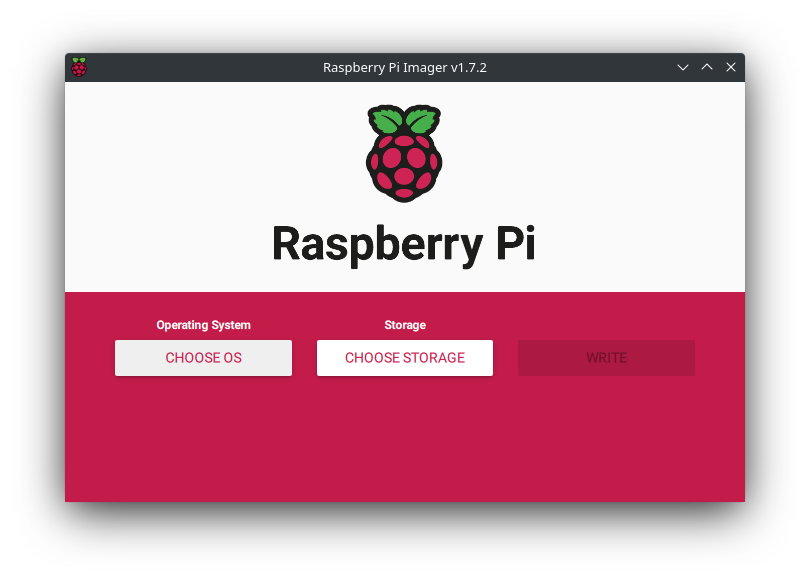
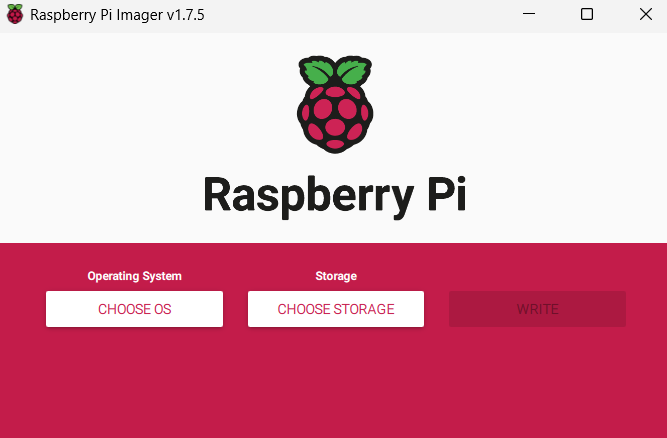
Doc: Rpi OS Setup (#4)
* doc: install process

* doc: install process

* getting started and bringup

* doc: update Rpi4 Setup and Bringup

diff --git a/content/en/docs/guides/setup/rpi4_setup/index.md b/content/en/docs/guides/setup/rpi4_setup/index.md
@@ -1,5 +1,5 @@
 ---
-title: "Raspberyy Pi 4 setup"
+title: "Raspberry Pi 4 setup"
 linktitle: "RPi4 setup"
 date: 2023-07-08
 weight: 1
@@ -15,15 +15,40 @@ The instructions for basic OS configuration are extracted from the [Lluvia proje
 
 On the desktop machine, download the Raspberry Pi Imager and install a fresh version of the operating system in a micro SD card.
 
+### Ubuntu Installation
 ```shell
 sudo apt install rpi-imager
+
 ```
 
-![](rpi-imager.png)
-![](rpi-imager-os-select.png)
-![](rpi-imager-sd.png)
+### Windows Installation
+For Windows users, download Raspberry Pi Imager directly using this [link](https://downloads.raspberrypi.org/imager/imager_latest.exe)
 
-Go to extra settings and enable SSH access, configure the WiFi, if needed. Click in **write** and wait for the process to complete.
+### Raspberry Pi Imager
+
+1. Select **CHOOSE OS** option to choose the Operating System.
+![](rpi-imager.png)
+
+
+2. Select **Raspberry Pi OS Lite (64-bit)**
+![](rpi-imager-os-select.png)
+
+3. Inside **CHOOSE STORAGE** , select the microSD where you will install the Raspberry Pi OS.
+![](rpi-imager-sd.jpeg)
+
+4. In the advanced  options, ensure that SSH is enabled and configure the hostname, username, password, and the Wi-Fi network to which the Raspberry Pi 4 will be connected.
+![](rpi-imager-advancedOptions.png)
+![](rpi-imager-advancedOptions2.png)
+
+5. Click on **save**, and finally, click on **write**, and wait for the process to complete.
+
+
+
+## Configurations inside the Raspberry Pi.
+
+{{< alert title="RPi configuration " >}}
+The instructions for basic OS configuration are extracted from the [Lluvia project](https://lluvia.ai/docs/gettingstarted/installation/raspberry_pi_4/).
+{{< /alert >}}
 
 Insert the micro SD card in the RPi and next, update and upgrade the operating system:
 
@@ -34,6 +59,41 @@ sudo apt upgrade
 sudo reboot
 ```
 
+## SSH connection (Optional) 
+There are two ways to initiate a remote connection between a PC and the Raspberry Pi using the SSH protocol. To get started, ensure that both devices are connected to the same network.
+
+###### **Using the Raspberry's hostname** 
+Both the username and hostname, as well as the password, set during the initial OS installation of the Raspberry Pi will be required.
+
+```shell
+ssh username@hostname.local
+```
+For example: 
+```shell
+ssh rosales@raspberrypi.local
+```
+
+###### **Using the Raspberry's IP** 
+```shell
+ssh username@raspberry_ip
+```
+For example: 
+```shell
+ssh rosales@192.168.1.77
+```
+
+>**Note** - You can obtain the IP of the Raspberry Pi using the following command:
+
+```shell
+sudo ifconfig
+```
+![](rpi-ifconfig.png)
+
+
+
+
+
+
 ### Expand storage
 
 ```shell
@@ -41,6 +101,7 @@ sudo raspi-config
 ```
 
 ![](raspi-config-advanced-options.png)
+
 ![](raspi-config-expand-storage.png)
 
 ```shell
@@ -56,8 +117,21 @@ sudo raspi-config
 ```
 
 ![](raspi-config-interface-options.png)
+
 ![](raspi-config-legacy-camera.png)
 
+```shell
+sudo reboot
+```
+
+### I2C module
+```shell
+sudo raspi-config
+```
+
+![](raspi-config-interface-options.png)
+
+![](raspi-config-legacy-i2c.png)
 ```shell
 sudo reboot
 ```
@@ -75,20 +149,27 @@ In the Raspberry terminal, run:
 curl -fsSL https://get.docker.com -o get-docker.sh
 sudo sh get-docker.sh
 
-# Grant priviledges to the rospi user to run docker containers
-sudo usermod -aG docker raspi
+# Grant priviledges to the Rpi4 Username  that was set during the extra setting Raspberry Pi,to run docker containers
+sudo usermod -aG docker ${RPi4_USERNAME}
+
+#Project dependencies and Docker compose
+sudo apt-get install -y libffi-dev libssl-dev python3-dev python3 python3-pip
+
+sudo pip3 install docker-compose
+
+sudo systemctl enable docker
 
 # restart the Raspberry
 sudo reboot
 ```
 
-Once logged in, try running the following commands
+Once logged in, try running the following commands:
 
 ```bash
 docker version
 ```
 
-that should give an output similar to:
+That should give an output similar to:
 
 ```
 Client: Docker Engine - Community
@@ -126,7 +207,7 @@ and run a demo container:
 docker run hello-world
 ```
 
-which should output some text like this:
+Which should output some text like this:
 
 ```
 Hello from Docker!
@@ -150,3 +231,62 @@ Share images, automate workflows, and more with a free Docker ID:
 For more examples and ideas, visit:
  https://docs.docker.com/get-started/
 ```
+
+## Troubleshooting
+
+{{< alert title="Known problems" >}}
+The instructions here provided are solutions to potential errors that may occur during the RPi4 setup
+{{< /alert >}}
+
+### **i2c-1 - video0 errors**
+
+If you encounter errors with **i2c-1** or **video0**, such as, for example, the following: **Error: Could not open file /dev/i2c-1': No such file or directory** - **Error: Could not open file /dev/video0: No such file or directory**, please follow either of the two solutions provided below:
+
+### Solution 1: Using raspi-config
+
+In the terminal, use the following command  to access the Raspberry Pi Software Configuration Tool. Then, follow these steps:
+
+```shell
+sudo raspi-config
+
+```
+
+
+1. Select option (3) Interface Options.
+![](raspi-config-interface-options.png)
+
+
+2.  Choose **I1 legacy Camera** if you are experiencing issues with **/dev/video0**. Or choose **I5 I2C** if your problem is related to **/dev/i2c-1**.
+![](raspi-config-legacy-camera.png)
+
+```shell
+sudo reboot
+
+```
+
+
+### Solution 2: Modifying config.txt.
+
+In the terminal, use the following command  to access to **config.txt**. Then, follow these steps:
+
+```shell
+cd /boot
+sudo nano config.txt
+```
+
+
+1. Once you're in **config.txt** , uncomment the line **dtparam=i2c_arm=on**.This will resolve the issue with **/dev/i2c-1**.
+![](solving_error_i2c-1.png)
+
+
+2.  Make sure that at the end of the **config.txt**, you only have the lines of code shown below.This will resolve the issue with **/dev/video0**.
+![](solving_error_video0.png)
+
+
+3. Save the configuration by pressing **Ctrl+s** and exit by pressing **Ctrl+x** and then reboot the RPi
+```shell
+sudo reboot
+
+```
+
+

diff --git a/content/en/docs/guides/getting_started/bringup/index.md b/content/en/docs/guides/getting_started/bringup/index.md
@@ -1,0 +1,42 @@
+---
+title: "Bringup Mardan Robot"
+linktitle: "Bringup"
+date: 2023-07-25
+weight: 1
+collapsible: false
+---
+
+{{< alert title="Bringup" >}}
+The code is be extracted from the [MardanRobotRpi](https://github.com/roboticamed/MardanRobotRpi) GitHub repository. 
+{{< /alert >}}
+
+
+### 1. Clone the repository
+
+Clone the  [repository](https://github.com/roboticamed/MardanRobotRpi) on the Raspberry Pi using the following command:
+```shell
+sudo git clone https://github.com/roboticamed/MardanRobotRpi
+
+```
+
+### 2. Navigate to MardanRobotRpi
+
+Once the repository is cloned, navigate to the **MardanRobotRpi** folder, and then enter on the **RPi** folder.
+Please, follow the below commands:
+
+``` shell
+cd MardanRobotRpi/
+cd RPi/
+```
+
+### 3. Run Docker Compose 
+
+Run  Docker Compose in the directory ~/MardanRobotRpi/RPi.
+```shell
+docker-compose up
+```
+That should give an output similar to:
+
+![](docker-compose.png)
+
+After establishing a connection with the master at **http://ros-master:11311**, the next step is to connect the MardanRobot with the Android application to put it into operation

diff --git a/content/en/docs/guides/getting_started/_index.md b/content/en/docs/guides/getting_started/_index.md
@@ -1,0 +1,6 @@
+---
+title: "Getting Started"
+date: 2023-07-24
+weight: 2
+collapsible: false
+---
